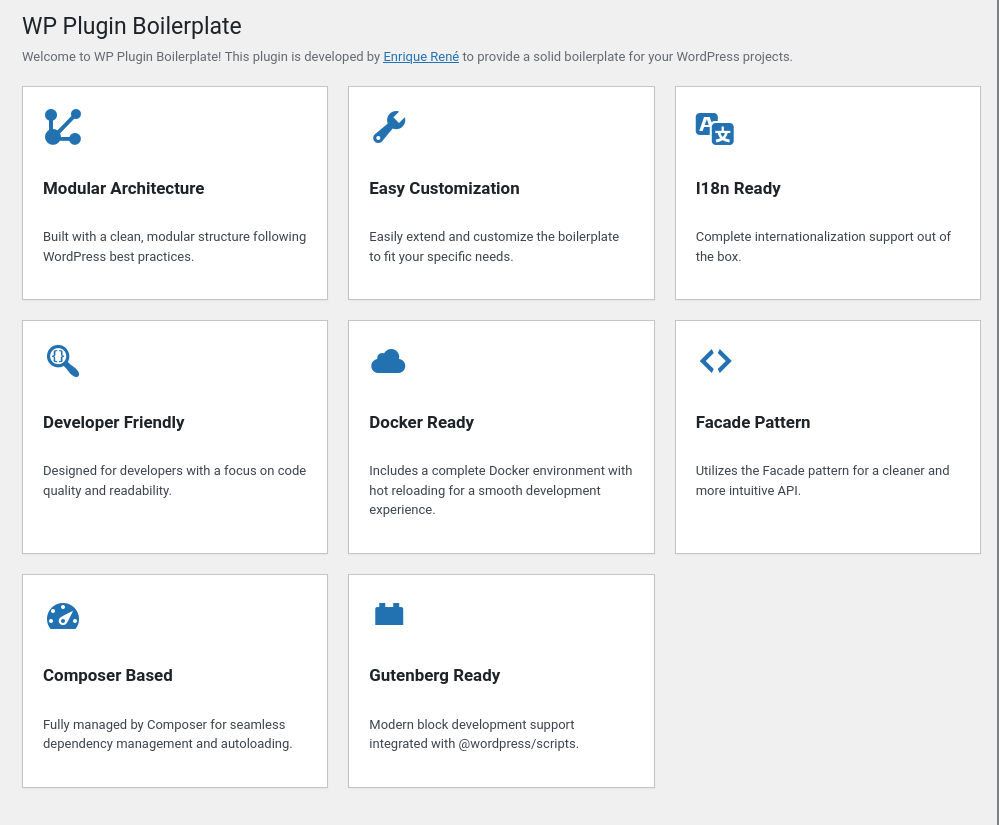
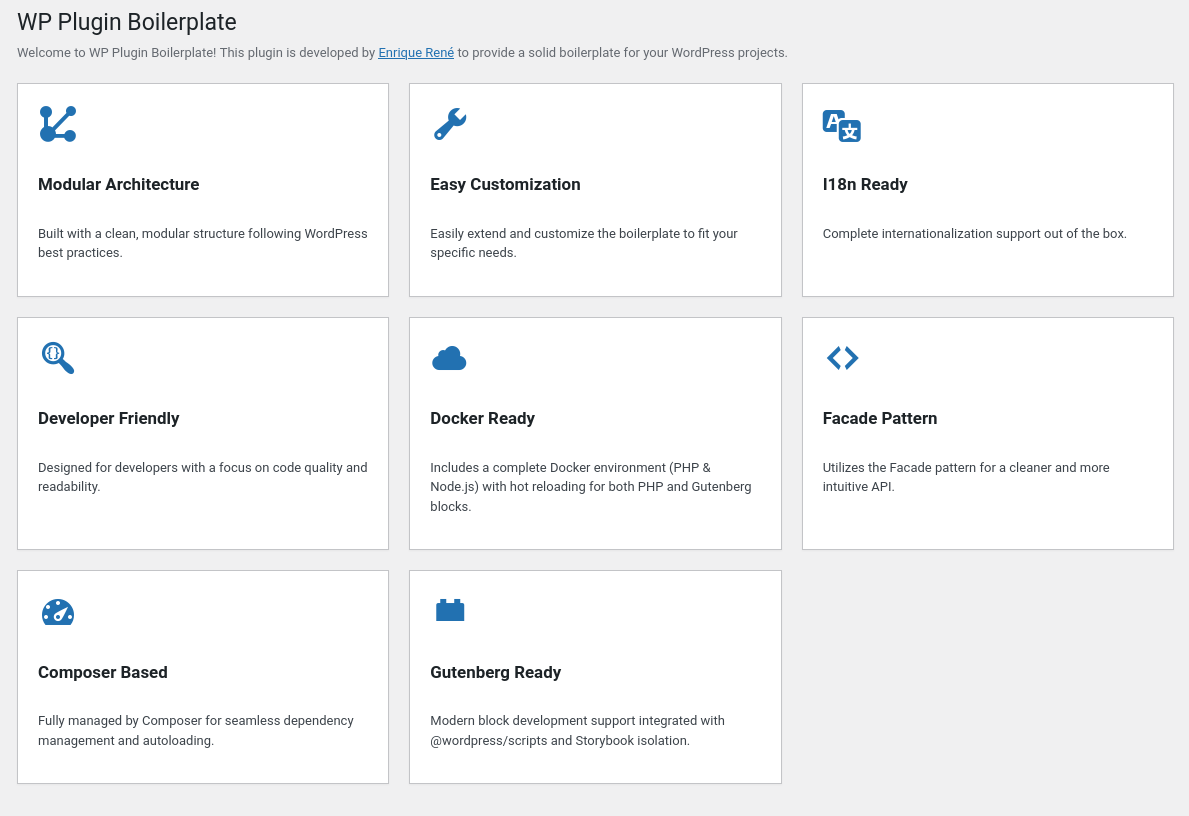
update README

diff --git a/README.md b/README.md
@@ -7,13 +7,19 @@ A professional, feature-rich WordPress plugin boilerplate designed for modern de
 ### Key Features
 
 -   **Modular Architecture**: Built with a clean, modular structure following WordPress best practices to ensure maintainability.
--   **Facade Pattern**: Utilizes the Facade pattern for a cleaner and more intuitive API.
--   **Composer Based**: Fully managed by Composer for seamless dependency management and PSR-4 autoloading.
--   **Gutenberg Ready**: Modern block development support integrated with `@wordpress/scripts`.
+-   **Gutenberg Ready**: Modern block development support integrated with `@wordpress/scripts` and Storybook.
 -   **Docker Ready**: Includes a complete Docker environment (WordPress + MySQL) for instant development.
--   **Hot Reloading**: Supports instant PHP revalidation and OPCache resetting for a smooth development experience.
--   **I18n Ready**: Complete internationalization support out of the box.
--   **Developer Friendly**: Designed for developers with a focus on code quality, readability, and ease of customization.
+-   **Developer Friendly**: Designed with a focus on code quality, readability, and ease of customization.
+
+---
+
+### Storybook & Blocks
+
+We use **Storybook** to develop and document our Gutenberg blocks in isolation. This ensures that UI components are consistent, well-tested, and easy to preview without needing a full WordPress installation active during the design phase.
+
+**Currently Implemented Blocks:**
+- **Social Card**: A versatile block for featuring content with an image, title, and description.
+- **Author Presentation**: A specialized block designed to showcase author details or specific integrations with an elegant overlapping layout.
 
 ---
 
@@ -103,3 +109,13 @@ Notes
   - Mounts a PHP ini override enabling instant OPCache revalidation.
   - Loads an MU-plugin that calls `opcache_reset()` on each request in dev.
 - To disable: set `DEV_HOT_RELOAD=0` (or remove) and `docker compose up -d`.
+
+---
+
+### About Author
+
+- **GitHub**: [enriquerene/wordpress-plugin-boilerplate](https://github.com/enriquerene/wordpress-plugin-boilerplate)
+- **Medium**: [@enriquerenebr](https://medium.com/@enriquerenebr)
+- **LinkedIn**: [enriquerenebr](https://www.linkedin.com/enriquerenebr)
+- **Stack Overflow**: [Enrique René](https://stackoverflow.com/users/5382576/enrique-ren%C3%A9)
+- **WhatsApp**: [Connect Now](https://wa.me/5511999999999) <!-- Placeholder as the exact number isn't in Home.mdx, just the icon and label -->
